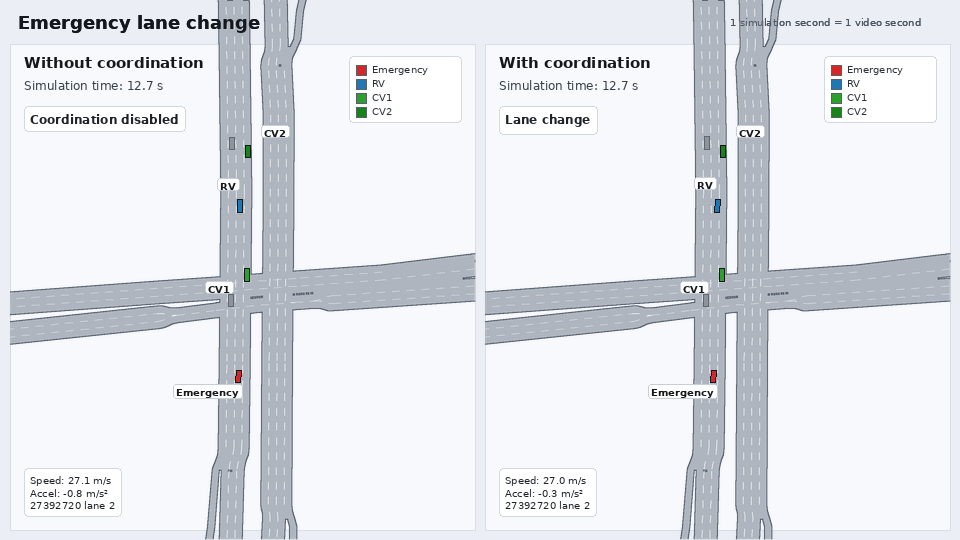
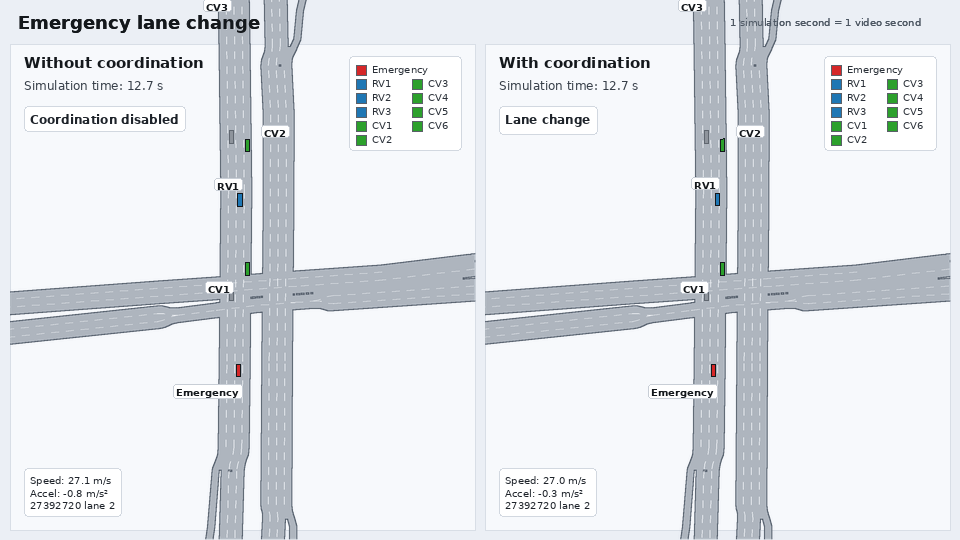
Finalize maneuver presentation animations

diff --git a/tools/animation/render_comparison.py b/tools/animation/render_comparison.py
@@ -42,6 +42,7 @@ from render_replay import (
     parse_junction_shapes,
     offset_polyline,
     parse_vehicle_dimensions,
+    vehicle_dimensions,
     require_capture_outputs,
     role_file,
     save_gif,
@@ -163,14 +164,13 @@ for scenario, presets in VIEW_PRESETS.items():
         "gif": f"{scenario}-comparison-presentation-road-detail.gif",
         "png": f"{scenario}-comparison-presentation-road-detail.png",
     }
-VIEW_PRESETS["merging"]["presentation-road-detail"]["poster_time"] = 11.8
+VIEW_PRESETS["merging"]["presentation-road-detail"]["poster_time"] = 14.6
 VIEW_PRESETS["lane-change"]["presentation-road-detail"]["poster_time"] = 12.7
 
 
 ROLE_COLORS = {
     "RV": (31, 119, 180),
-    "CV1": (44, 160, 44),
-    "CV2": (22, 132, 22),
+    "CV": (44, 160, 44),
     "Emergency": (214, 39, 40),
     "Other": (142, 148, 156),
 }
@@ -191,47 +191,66 @@ def parse_args() -> argparse.Namespace:
     )
     parser.add_argument("--output", type=Path, help="Optional output directory for final media.")
     parser.add_argument("--keep-frames", action="store_true")
+    parser.add_argument("--capture-root", type=Path,
+                        help="Separate capture pair containing baseline/, coordinated/, comparison.json.")
+    parser.add_argument("--output-stem", help="Override GIF/PNG filenames for experimental outputs.")
+    parser.add_argument("--poster-time", type=float, help="Simulation time for the experimental PNG preview.")
     return parser.parse_args()
 
 
 class ScenarioData:
-    def __init__(self, scenario: str) -> None:
-        require_capture_outputs(scenario)
+    def __init__(self, scenario: str, capture_root: Path | None = None) -> None:
+        if capture_root is None:
+            require_capture_outputs(scenario)
+        def output(variant):
+            return capture_root / variant if capture_root else scenario_output_dir(scenario, variant)
         self.scenario = scenario
         self.roles = load_json(role_file(scenario))
-        self.comparison = load_json(comparison_file(scenario))
+        self.comparison = load_json(capture_root / "comparison.json" if capture_root else comparison_file(scenario))
         self.metrics = {
-            variant: load_json(scenario_output_dir(scenario, variant) / "metrics.json")
+            variant: load_json(output(variant) / "metrics.json")
             for variant in ("baseline", "coordinated")
         }
         self.events = {
-            variant: load_json(scenario_output_dir(scenario, variant) / "events.json")
+            variant: load_json(output(variant) / "events.json")
             for variant in ("baseline", "coordinated")
         }
         self.fcd = {
-            variant: parse_fcd(scenario_output_dir(scenario, variant) / "fcd.xml")
+            variant: parse_fcd(output(variant) / "fcd.xml")
             for variant in ("baseline", "coordinated")
         }
+        if scenario in ("merging", "lane-change"):
+            participants = {"RV": [], "CV": []}
+            for event in self.events["coordinated"]:
+                role = event.get("role")
+                vehicle_id = event.get("localVehicleId")
+                if (event.get("action") == "SEND" and event.get("msg") == "Accept"
+                        and role == "CV" and vehicle_id not in participants["CV"]):
+                    participants["CV"].append(vehicle_id)
+                elif (event.get("action") == "SEND" and event.get("msg") == "Request"
+                        and role == "RV" and vehicle_id not in participants["RV"]):
+                    participants["RV"].append(vehicle_id)
+            # Departure/FCD order provides stable names, independent of Accept
+            # arrival order (CV4 can send its Accept before CV3).
+            for role, key in (("RV", "presentation_rvs"), ("CV", "presentation_cvs")):
+                self.roles["vehicles"][key] = sorted(participants[role],
+                    key=lambda vid: (self.fcd["coordinated"][vid].samples[0].time, vid))
 
 
 def role_map(scenario: str, roles: dict[str, Any]) -> dict[str, tuple[str, tuple[int, int, int]]]:
-    if scenario == "merging":
-        rv = roles["vehicles"]["rv"]
-        cv1, cv2 = roles["vehicles"]["candidate_cvs"][:2]
-        return {
-            rv: ("RV", ROLE_COLORS["RV"]),
-            cv1: ("CV1", ROLE_COLORS["CV1"]),
-            cv2: ("CV2", ROLE_COLORS["CV2"]),
-        }
-    emergency = roles["vehicles"]["emergency_vehicle"]
-    rv = roles["vehicles"]["follower_rv"]
-    cv1, cv2 = roles["vehicles"]["target_lane_cvs"][:2]
-    return {
-        emergency: ("Emergency", ROLE_COLORS["Emergency"]),
-        rv: ("RV", ROLE_COLORS["RV"]),
-        cv1: ("CV1", ROLE_COLORS["CV1"]),
-        cv2: ("CV2", ROLE_COLORS["CV2"]),
-    }
+    # Presentation labels follow verified Request/Accept participants. Names
+    # remain fixed in both panels; the baseline uses counterpart identities.
+    mapping = {}
+    if scenario == "lane-change":
+        emergency = roles["vehicles"]["emergency_vehicle"]
+        mapping[emergency] = ("Emergency", ROLE_COLORS["Emergency"])
+    default_rv = roles["vehicles"]["rv" if scenario == "merging" else "follower_rv"]
+    default_cvs = roles["vehicles"]["candidate_cvs" if scenario == "merging" else "target_lane_cvs"]
+    for i, vehicle_id in enumerate(roles["vehicles"].get("presentation_rvs", [default_rv]), 1):
+        mapping[vehicle_id] = (f"RV{i}", ROLE_COLORS["RV"])
+    for i, vehicle_id in enumerate(roles["vehicles"].get("presentation_cvs", default_cvs[:2]), 1):
+        mapping[vehicle_id] = (f"CV{i}", ROLE_COLORS["CV"])
+    return mapping
 
 
 def vehicle_ids_to_draw(data: ScenarioData) -> list[str]:
@@ -451,7 +470,13 @@ def road_surface_layer(size, box, viewport, lanes, junctions, complete_merging_j
     clip = Image.new("L", resolution)
     ImageDraw.Draw(clip).rectangle(screen_box, fill=255)
     layer.putalpha(ImageChops.multiply(layer.getchannel("A"), clip))
-    return layer.resize(size, Image.LANCZOS)
+    layer = layer.resize(size, Image.LANCZOS)
+    # Downsampling can spread alpha outside the panel by a pixel. Enforce the
+    # final frame boundary after antialiasing as well as before it.
+    final_clip = Image.new("L", size)
+    ImageDraw.Draw(final_clip).rectangle(clip_box, fill=255)
+    layer.putalpha(ImageChops.multiply(layer.getchannel("A"), final_clip))
+    return layer
 
 
 @lru_cache(maxsize=2)
@@ -574,9 +599,7 @@ def draw_panel(
             primary_sample = sample
         if vehicle_id in roles:
             continue
-        dimensions = dimensions_by_type.get(sample.vehicle_type)
-        if dimensions is None:
-            dimensions = VehicleDimensions(DEFAULT_VEHICLE_LENGTH_M, DEFAULT_VEHICLE_WIDTH_M)
+        dimensions = vehicle_dimensions(sample.vehicle_type, dimensions_by_type)
         draw_vehicle(draw, sample, dimensions, transform, None, ROLE_COLORS["Other"], fonts["small"], False)
 
     label_offsets = {
@@ -601,9 +624,7 @@ def draw_panel(
             continue
         if vehicle_id == primary_id:
             primary_sample = sample
-        dimensions = dimensions_by_type.get(sample.vehicle_type)
-        if dimensions is None:
-            dimensions = VehicleDimensions(DEFAULT_VEHICLE_LENGTH_M, DEFAULT_VEHICLE_WIDTH_M)
+        dimensions = vehicle_dimensions(sample.vehicle_type, dimensions_by_type)
         draw_vehicle(
             draw,
             sample,
@@ -613,7 +634,9 @@ def draw_panel(
             color,
             fonts["small_bold"],
             True,
-            label_offsets.get(label, (0, -22)),
+            label_offsets[label] if label in label_offsets else (
+                label_offsets["RV"] if label.startswith("RV") else
+                label_offsets["CV1" if int(label[2:]) % 2 else "CV2"]),
         )
 
     if view == "presentation-road-detail":
@@ -642,18 +665,27 @@ def draw_panel(
     legend_y = top + 12
     line_height = 14
     legend_width = 112
-    legend_height = 10 + line_height * len(roles)
+    legend_columns = 2 if len(roles) > 4 else 1
+    # Emergency gets a full-width row so its name cannot collide with column 2.
+    full_rows = [(label, color) for label, color in roles.values() if label == "Emergency"]
+    compact_rows = [(label, color) for label, color in roles.values() if label != "Emergency"]
+    legend_rows = math.ceil(len(compact_rows) / legend_columns)
+    legend_height = 10 + line_height * (legend_rows + len(full_rows))
     draw.rounded_rectangle(
         (legend_x, legend_y, legend_x + legend_width, legend_y + legend_height),
         radius=4,
         fill=(255, 255, 255),
         outline=(210, 216, 224),
     )
-    y = legend_y + 7
-    for label, color in roles.values():
-        draw.rectangle((legend_x + 7, y + 2, legend_x + 17, y + 12), fill=color, outline=(90, 96, 104))
-        draw.text((legend_x + 23, y), label, fill=(42, 48, 56), font=fonts["small"])
-        y += line_height
+    legend_items = [(label, color, legend_x, legend_y + 7 + i * line_height)
+                    for i, (label, color) in enumerate(full_rows)]
+    for index, (label, color) in enumerate(compact_rows):
+        x = legend_x + (index // legend_rows) * (legend_width // legend_columns)
+        y = legend_y + 7 + (len(full_rows) + index % legend_rows) * line_height
+        legend_items.append((label, color, x, y))
+    for label, color, x, y in legend_items:
+        draw.rectangle((x + 7, y + 2, x + 17, y + 12), fill=color, outline=(90, 96, 104))
+        draw.text((x + 23, y), label, fill=(42, 48, 56), font=fonts["small"])
 
     if final_hold and view not in ("presentation-closeup", "presentation-road-detail"):
         lines = final_summary_lines(data.scenario)
@@ -717,7 +749,7 @@ def occupied_visible_lanes(data, times, viewport, width, height, dimensions_by_t
                 sample = series.at(time_s)
                 if sample is None:
                     continue
-                dimensions = dimensions_by_type.get(sample.vehicle_type, VehicleDimensions())
+                dimensions = vehicle_dimensions(sample.vehicle_type, dimensions_by_type)
                 points = [transform(*p) for p in vehicle_polygon(sample, dimensions)]
                 if (max(p[0] for p in points) >= left and min(p[0] for p in points) <= right
                         and max(p[1] for p in points) >= 0 and min(p[1] for p in points) < height):
@@ -735,8 +767,11 @@ def render_scenario(
     end: float,
     output_dir: Path,
     keep_frames: bool,
+    capture_root: Path | None = None,
+    output_stem: str | None = None,
+    poster_time: float | None = None,
 ) -> dict[str, Any]:
-    data = ScenarioData(scenario)
+    data = ScenarioData(scenario, capture_root)
     output_dir.mkdir(parents=True, exist_ok=True)
     lanes = parse_lane_shapes(ROUTES_DIR / "new_map.net.xml")
     dimensions_by_type = parse_vehicle_dimensions(ROUTES_DIR / "vehicle_types.xml")
@@ -750,6 +785,10 @@ def render_scenario(
             if series is not None:
                 focus_series.append(series)
     view_settings = {**SCENARIO_DEFAULTS[scenario], **VIEW_PRESETS[scenario][view]}
+    if poster_time is not None:
+        view_settings["poster_time"] = poster_time
+    if output_stem:
+        view_settings.update(gif=f"{output_stem}.gif", png=f"{output_stem}.png")
     viewport = view_settings.get("viewport")
     if viewport is None:
         viewport = compute_viewport(focus_series, lanes, start, end)
@@ -802,7 +841,7 @@ def render_scenario(
     gif_path = output_dir / view_settings["gif"]
     png_path = output_dir / view_settings["png"]
     poster_frame.save(png_path)
-    save_gif(frames, gif_path, fps)
+    save_gif(frames, gif_path, fps, fixed_colors=tuple(ROLE_COLORS.values()))
 
     if not keep_frames and frame_dir.exists():
         shutil.rmtree(frame_dir)
@@ -852,6 +891,9 @@ def main() -> int:
             end=end,
             output_dir=output_dir,
             keep_frames=args.keep_frames,
+            capture_root=args.capture_root,
+            output_stem=args.output_stem,
+            poster_time=args.poster_time,
         )
         results.append(result)
         print(

diff --git a/tools/animation/render_replay.py b/tools/animation/render_replay.py
@@ -24,7 +24,7 @@ TMP_FRAME_DIR = RESULTS_DIR / "tmp_frames"
 STOPPED_SPEED_MPS = 0.1
 LOW_SPEED_MPS = 2.0
 DEFAULT_VEHICLE_LENGTH_M = 5.0
-DEFAULT_VEHICLE_WIDTH_M = 2.0
+DEFAULT_VEHICLE_WIDTH_M = 1.8
 
 
 @dataclass(frozen=True)
@@ -154,6 +154,13 @@ def parse_vehicle_dimensions(path: Path) -> dict[str, VehicleDimensions]:
             width=parse_float(elem.get("width"), DEFAULT_VEHICLE_WIDTH_M),
         )
     return dimensions
+
+
+def vehicle_dimensions(vehicle_type: str, dimensions_by_type) -> VehicleDimensions:
+    # TraCI creates per-vehicle types such as car_ml@car_ml1_2 when a maximum
+    # speed is changed; inherit the original SUMO vType dimensions.
+    return dimensions_by_type.get(vehicle_type,
+        dimensions_by_type.get(vehicle_type.split("@", 1)[0], VehicleDimensions()))
 
 
 def parse_lane_shapes(path: Path) -> list[LaneShape]:
@@ -299,6 +306,7 @@ def vehicle_polygon(
     sample: VehicleSample,
     dimensions: VehicleDimensions,
 ) -> list[tuple[float, float]]:
+    # FCD x/y is the center of the front bumper; the body extends behind it.
     # SUMO angle is measured clockwise from north. Convert to a world-space
     # direction vector with x east and y north.
     rad = math.radians(sample.angle)
@@ -306,13 +314,12 @@ def vehicle_polygon(
     dy = math.cos(rad)
     px = math.cos(rad)
     py = -math.sin(rad)
-    half_l = dimensions.length / 2.0
     half_w = dimensions.width / 2.0
     corners = [
-        (half_l, half_w),
-        (half_l, -half_w),
-        (-half_l, -half_w),
-        (-half_l, half_w),
+        (0.0, half_w),
+        (0.0, -half_w),
+        (-dimensions.length, -half_w),
+        (-dimensions.length, half_w),
     ]
     return [
         (
@@ -371,23 +378,28 @@ def format_acceleration(acceleration: float | None) -> str:
     return "n/a" if acceleration is None else f"{acceleration:.1f} m/s²"
 
 
-def save_gif(frames: list[Image.Image], path: Path, fps: int) -> None:
+def save_gif(frames: list[Image.Image], path: Path, fps: int, fixed_colors=()) -> None:
+    """Encode every frame with one palette and exact reserved role colors."""
     if not frames:
         raise ValueError("no frames to save")
     duration_ms = int(round(1000 / fps))
-    paletted = [
-        frame.convert("P", palette=Image.ADAPTIVE, colors=128)
-        for frame in frames
-    ]
-    paletted[0].save(
-        path,
-        save_all=True,
-        append_images=paletted[1:],
-        duration=duration_ms,
-        loop=0,
-        optimize=True,
-        disposal=2,
-    )
+    fixed_colors = tuple(dict.fromkeys(fixed_colors))
+    # Sample the sequence once for its neutral/UI colors, not independently per
+    # frame. Reserved entries keep role fills exact despite changing traffic.
+    samples = frames[::max(1, len(frames) // 12)][:12]
+    sample = Image.new("RGB", (240, 135 * len(samples)))
+    for i, frame in enumerate(samples):
+        sample.paste(frame.resize((240, 135), Image.NEAREST), (0, i * 135))
+    neutral_count = 128 - len(fixed_colors)
+    adaptive = sample.quantize(colors=neutral_count)
+    palette = Image.new("P", (1, 1))
+    values = [channel for color in fixed_colors for channel in color]
+    values += adaptive.getpalette()[:neutral_count * 3]
+    values += [0] * (768 - len(values))
+    palette.putpalette(values)
+    paletted = [frame.quantize(palette=palette, dither=Image.NONE) for frame in frames]
+    paletted[0].save(path, save_all=True, append_images=paletted[1:],
+                    duration=duration_ms, loop=0, optimize=False, disposal=2)
 
 
 def parse_junction_shapes(path: Path, excluded_ids: tuple[str, ...] = ()) -> tuple:
